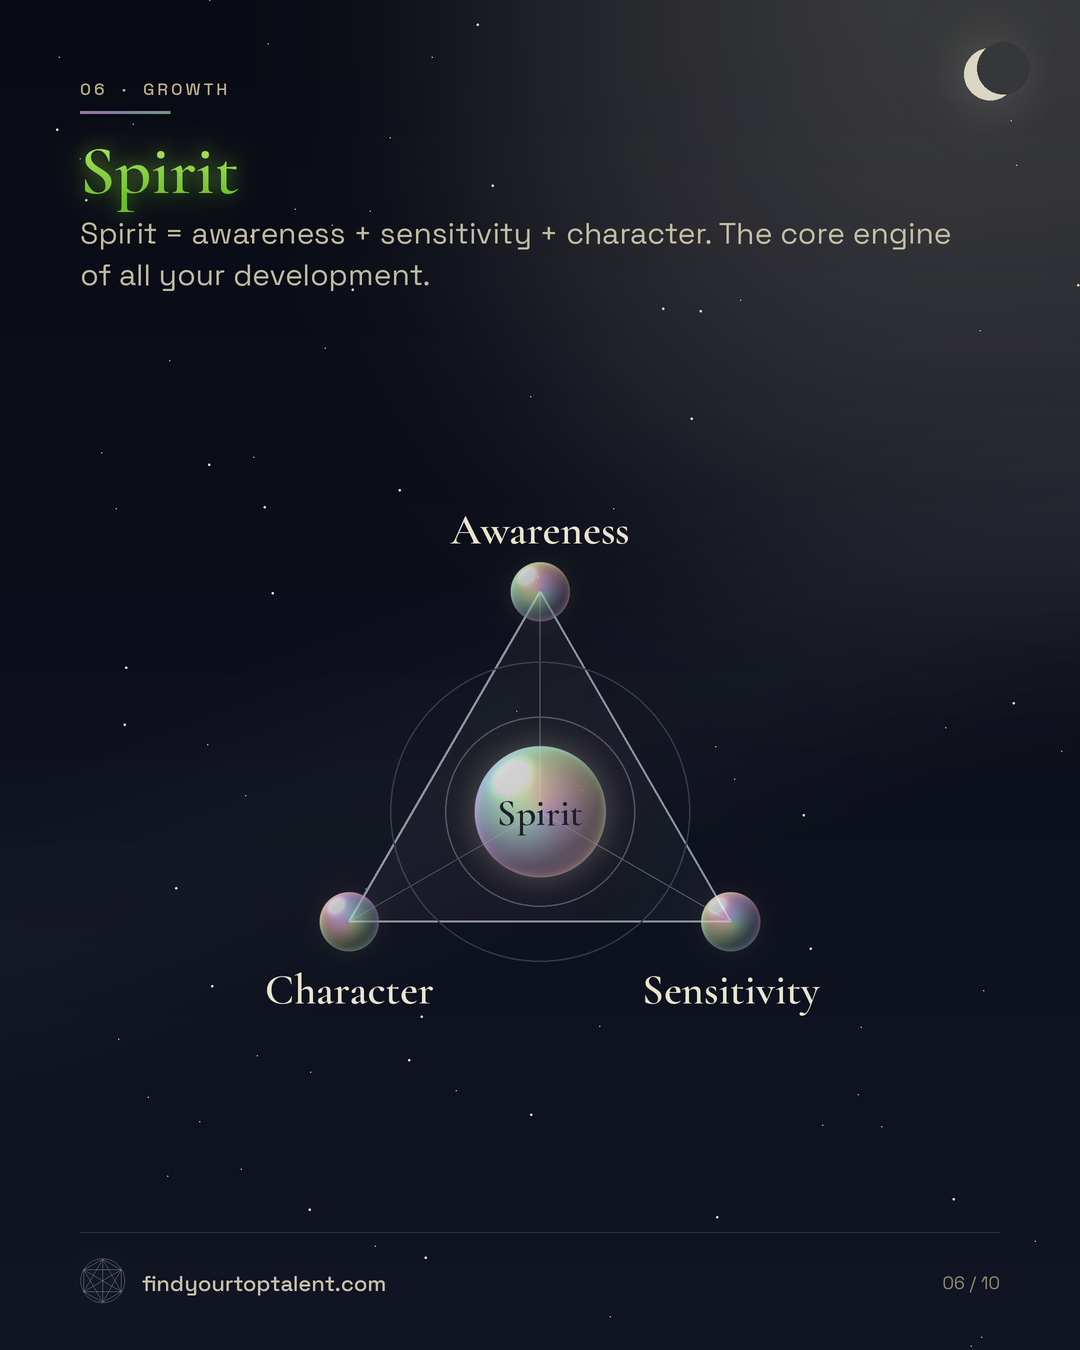
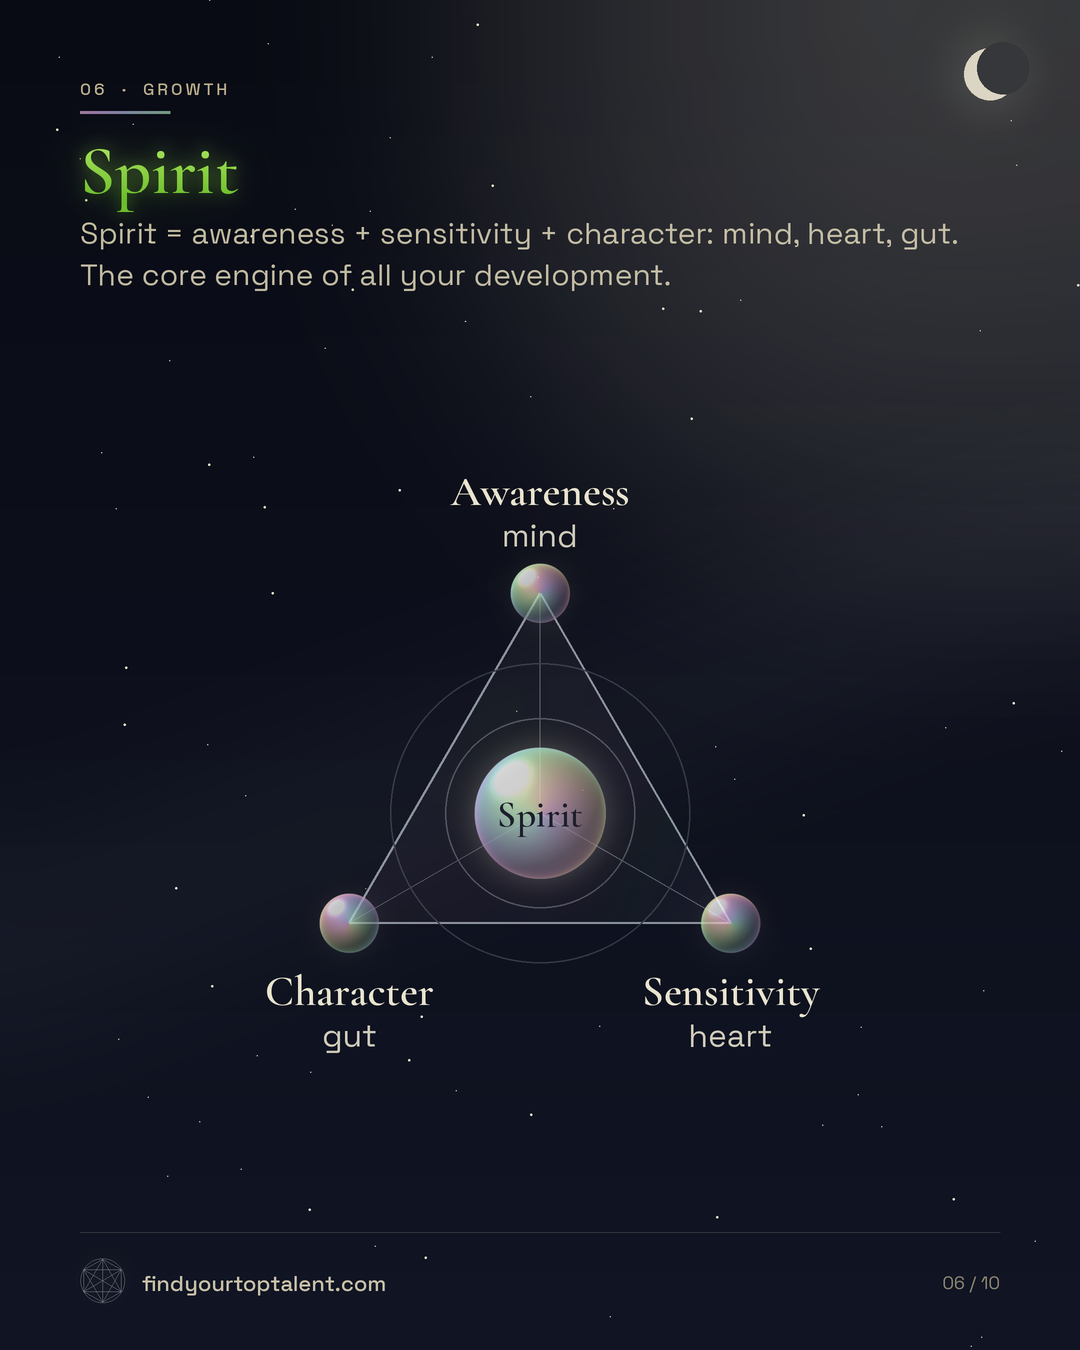
feat(infographics): ADP series v3, Genius → Uniqueness, Spirit pillars = mind, heart, gut (#501) (#505)
Template: spec-handoff.

diff --git a/docs/assets/infographics/book/adp/A06.py b/docs/assets/infographics/book/adp/A06.py
@@ -13,7 +13,10 @@ def build(spec):
     c.rings(cx, cy, [95, 150], a=(80, 50))
     for k, (v, label) in enumerate(zip(V, t["nodes"])):
         c.orb(v[0], v[1], 30, glow=50, seed=k + 1)
-        K.name(c, v[0], v[1] - 88 if k == 0 else v[1] + 42, label, size=43)
+        y = v[1] - 128 if k == 0 else v[1] + 42
+        K.name(c, v[0], y, label, size=43)
+        # second, smaller line: the centre this pillar lives in
+        K.note(c, v[0], y + 50, t["centres"][k], size=32, color=K.BRIGHT)
     c.orb(cx, cy, 66, glow=90)
     with c.labels():
         c.ctext(cx, cy - 22, t["center"], "serif", 38, K.DARK, 255, maxw=120, lh=1.05)
